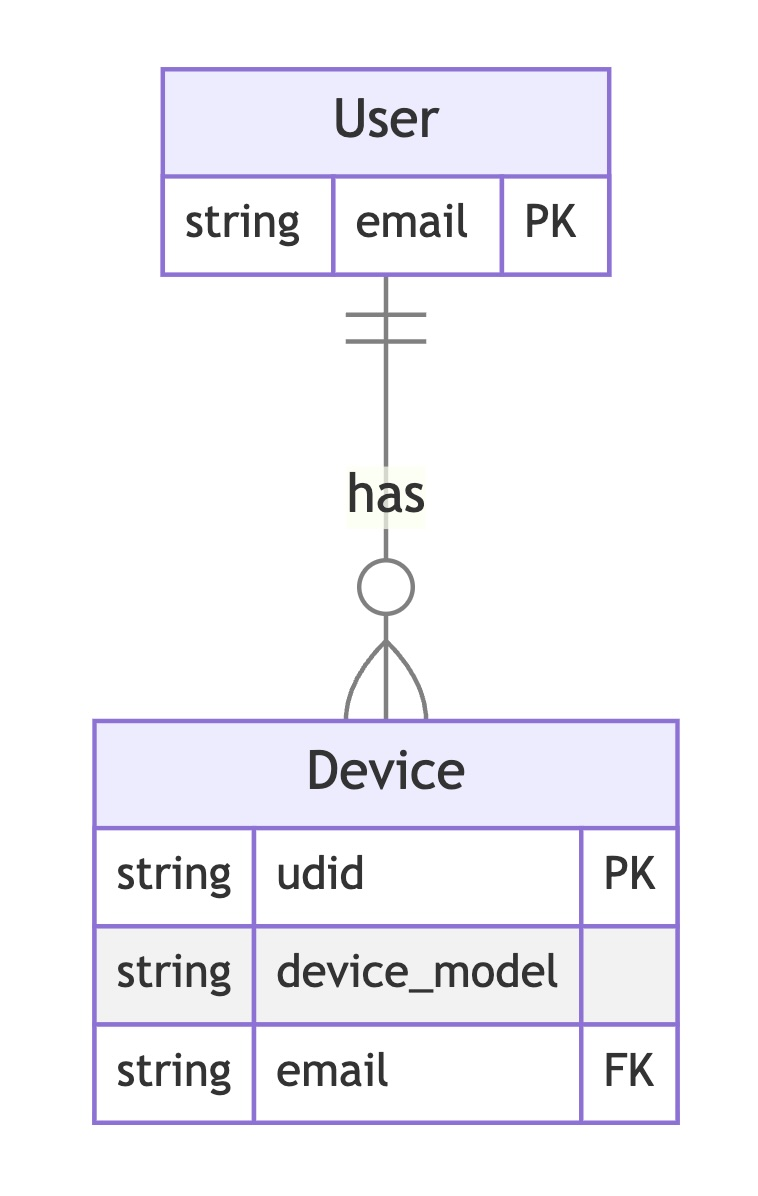
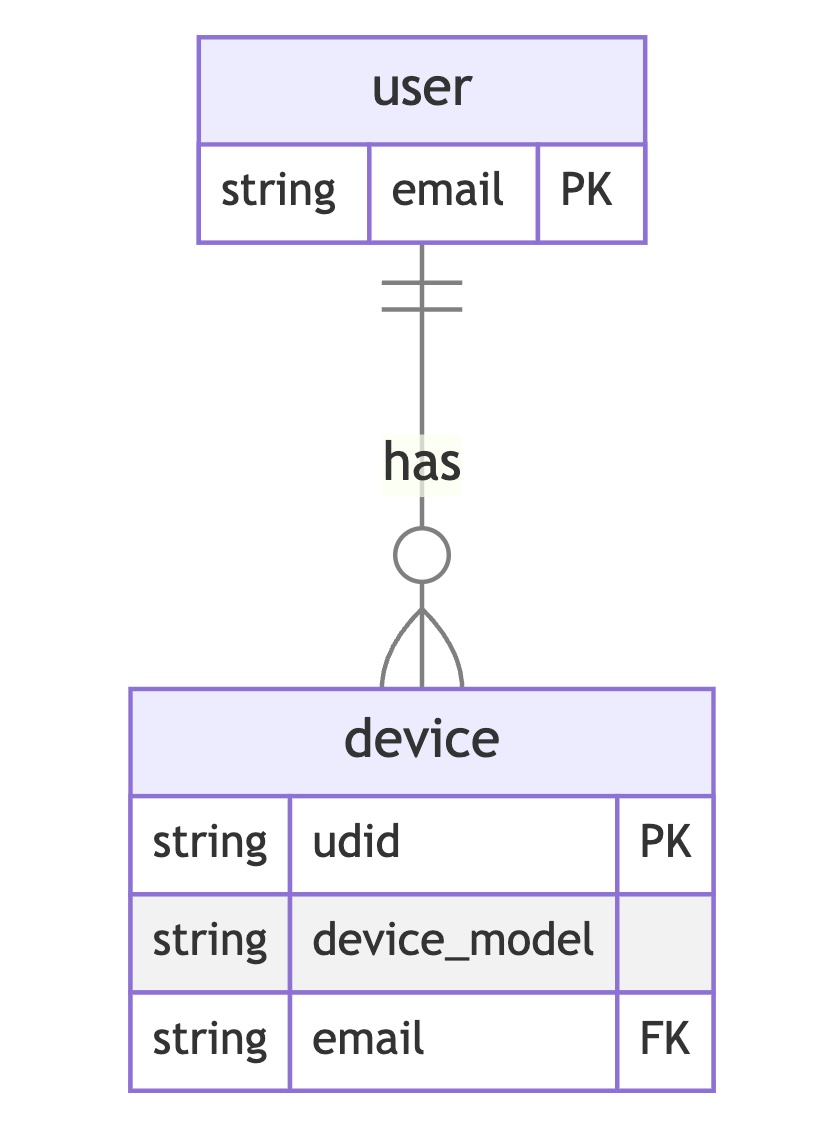
docs: progress update

Changed region(s): [[0.1214, 0.4654, 0.9103, 0.9929], [0.2124, 0.031, 0.8193, 0.4654], [0.4551, 0.4654, 0.4855, 0.4965]]

diff --git a/index.html b/index.html
@@ -51,31 +51,34 @@
     <h1>iOS App Access Automation</h1>
 
     <h2 id="background">Background</h2>
-    <p>Apple restricts devices from installing and using apps from outside its official app market, App Store, without establishing a form of trust between the device and the app’s developer through the Apple Developer Program. Firebase simplifies this process.</p>
-    <p>However, when there’s a timezone difference, it can take up to 24 hours until the users can install the app.</p>
-    <p>This project aims to solve this problem by automating the work required on the developer’s side to grant access to the app after a user registers their device with Firebase.</p>
+    <p>Apple restricts devices from installing and using apps from outside its official app market, App Store, without establishing a form of trust between the device and the app’s developer through the Apple Developer Program. Firebase simplifies this process by providing tools for app distribution.</p>
+    <p>However, the process required manual work from the engineer to register devices and manage access. When there's a timezone difference between the engineer and new users, it could take a day for the engineer to see a new access request.</p>
+    <p>
+    This project automated the work required on the developer's side to grant access to the app after a user registers their device with Firebase. Users now only need to wait approximately 20 minutes after registering their device with Firebase, after which they will receive an email from Firebase that informs the build is ready to be downloaded and installed.</p>
     <h2 id="justification">Justification</h2>
     <p>There’s no question whether automating the process of building and distribution is worth it because doing it manually would cost a substantial amount of time to make small releases that are necessary for identifying issues early.</p>
-<p>However, automating the registration of device UDIDs and the management of the email list required by the Firebase CLI may seem unnecessary but it mitigates the risk of human errors like entering the wrong UDID or email address. It also protects engineers from frequent context switching as they would otherwise need to switch to these tasks every time someone new needs access.</p>
-    <h2>How It Works for Users</h2>
-    <p>
-        Once this project is functional, users will only need to wait approximately 1 hour after registering their device with Firebase, after which they will receive an email from Firebase that informs the build is ready to be downloaded and installed.
-    </p>
+<p>Automating the registration of device UDIDs and the management of the email list required by the Firebase CLI may seem unnecessary, but it provides several benefits. It mitigates the risk of human errors like entering the wrong UDID or email address. It also protects engineers from frequent context switching as they would otherwise need to switch to these tasks every time someone new needs access. Lastly, it eliminates the need for coordination between testers and engineers just for app access.</p>
     <h2>Personal Goal</h2>
     <p>
         Estimating something unknown has always been problematic for me. Sometimes, I estimate 16 hours and it's done in 4 hours. Sometimes, it's the other way around. This makes stakeholders unhappy because it's difficult for them to manage project timelines.
     </p>
     <p>
-        The project is being carried out with a focus on figuring out what can be done to address this weakness of mine and applying the findings along the way.
-    </p>
-    <p>
-        All lessons learned so far are highlighted under the section titled "Lesson Learned".
+        This project was carried out with a focus on figuring out what can be done to address this weakness of mine and applying the findings along the way. All lessons learned so far are highlighted under the section titled "Lesson Learned".
     </p>
     <h2>Project Timeline</h2>
     <ul>
         <li><strong>Start Date:</strong> 16 Dec 2024</li>
-        <li><strong>Expected Completion Date:</strong> 31 Jan 2025</li>
-        <li><strong>Working Hours a Week:</strong> 12-15 hours</li>
+        <li><strong>Completed Date:</strong> 20 Jan 2025</li>
+        <li><strong>Working Hours a Week:</strong> 15 hours</li>
+    </ul>
+    <h2 id="skills-demonstrated">Skills Demonstrated</h2>
+    <ul>
+    <li>Security Fundamentals</li>
+    <li>Automation Engineering (CI/CD)</li>
+    <li>RESTful API Development</li>
+    <li>Problem Analysis</li>
+    <li>System Design and Architecture</li>
+    <li>Continuous Growth through Reflection</li>
     </ul>
     <h2>Design</h2>
     <p>The project consists of three main components:</p>
@@ -88,7 +91,7 @@
 </ul>
 <p><strong>Firebase (App Distribution)</strong> and <strong>Apple Developer Account (via Apple Connect API)</strong> are external services that do not require any coding.</p>
 <p>iOS Build GitHub Workflow is in <a href="https://github.com/AungThiha/iOSAppAccessAutomation" target="_blank">iOSAppAccessAutomation repo</a>. Normally, it would be in <a href="https://github.com/AungThiha/PhotoAlbumKMP" target="_blank">the KMP project's repo</a> but because the KMP project's repo is submitted as part of a university assignment, it's locked until I get my final result. Once unlocked, iOS Build GitHub Workflow will be moved into the KMP project's repo. This is in May 2025.</p>
-<p>Please note that the Node.js service in <strong>iOSAppAccessAutomation</strong> isn't necessary if the emails are managed as <a href="https://firebase.google.com/docs/app-distribution/add-remove-testers?platform=ios#add-remove-testers-group" target="_blank">tester groups</a> as the Firebase CLI allows distribution by groups. However, during the assignment, the automation aspect wasn't factored into implementation decisions, which led to the use of a Firebase invite link that doesn't add the user's email to a group. As a result, this automation project needs a service to manage an email list.</p>
+<p>Please note that the Node.js service in <strong>iOSAppAccessAutomation</strong> isn't necessary if the emails are managed as <a href="https://firebase.google.com/docs/app-distribution/add-remove-testers?platform=ios#add-remove-testers-group" target="_blank">tester groups</a>. As the Firebase CLI allows distribution by a group name, a group name can be set the GitHub workflow only once and re-used for all builds. However, during the assignment, the automation aspect wasn't factored into implementation decisions. This led to the use of a Firebase invite link which doesn't add the user's email to a group. As a result, this automation project needs a service to manage an email list.</p>
     <h3>Sequence Diagram</h3>
     <div class="image-container">
         <img src="images/diagram2.jpg" class="responsive-image" alt="Diagram">
@@ -99,6 +102,10 @@
     </div>
     <p>This is used in iOSAppAccessAutomation.</p>
     <h2 id="security">Security</h2>
+<h3>Using Third-party GitHub Actions Sparingly</h3>
+<p>
+    Dependency Chain Abuse is listed in <a href="https://owasp.org/www-project-top-10-ci-cd-security-risks/" target="_blank">the OWASP Top 10 CI/CD Security Risks</a>. Therefore, any third-party GitHub action that requires sensitive credentials, such as API keys or access tokens, as arguments is not used in this project.
+</p>
 <h3 id="iosappaccessautomation">iOSAppAccessAutomation</h3>
 <p>This server is deployed on Heroku. To enable HTTPS, Heroku uses Server Name Indication (SNI), an extension of the widely supported TLS protocol (<a href="https://devcenter.heroku.com/articles/ssl">Heroku, 2024</a>). This ensures encrypted communication over the network to prevent eavesdropping and man-in-the-middle attacks.</p>
 <h3 id="communications-between-iosappinvitealert-and-iosappaccessautomation">Communications Between iOSAppInviteAlert and iOSAppAccessAutomation</h3>
@@ -108,19 +115,19 @@
 <p>For an organization, Heroku configuration variables may not be a viable option because Heroku doesn’t provide a way to pick and choose what features of Heroku a team member can have access to. This makes the secret keys visible to anyone who has access to Heroku dashboard. However, for this project, because I’m the sole engineer, this is not an issue.</p>
 <h3 id="communications-between-the-github-workflow-and-iosappaccessautomation">Communications Between the GitHub workflow and iOSAppAccessAutomation</h3>
 <p>To ensure only the GitHub workflow in this project can download the email list from iOSAppAccessAutomation, the same security design is used.</p>
-<p>The GitHub workflow uses a private key stored in Github Secret to generate JWTs to identify itself when communicating with iOSAppAccessAutomation. iOSAppAccessAutomation verifies these JWTs using a public key stored in Heroku configuration variables.</p>
+<p>The GitHub workflow uses a private key stored in GitHub Secret to generate JWTs to identify itself when communicating with iOSAppAccessAutomation. iOSAppAccessAutomation verifies these JWTs using a public key stored in Heroku configuration variables.</p>
 <p>Please, note that the RSA key pair used here is not the same the key pair used for communications between iOSAppInviteAlert and iOSAppAccessAutomation. This enables separate access management.</p>
 <h3 id="future-improvement">Future Improvement</h3>
 <p>Rotating the RSA keys periodically would minimize the impact of key compromise. This will be done as part of learning secure infrastructure management though the exact date for this isn't set yet. Priorities are reviewed every 4 months.</p>
 <p>Logging and monitoring will also be done as part of learning secure infrastructure management.</p>
     <h2>Edge Case</h2>
-    <p>If a user invites themselves using a new email but with a device that's already registered,  Apple Connect API will return an error and iOSAppInviteAlert won't call the Github workflow to create a new build.</p>
+    <p>If a user invites themselves using a new email but with a device that's already registered, Apple Connect API will return an error and iOSAppInviteAlert won't call the GitHub workflow to create a new build.</p>
     <p>This is not a problem because the latest build will have already been built with a provisioning profile that's configured with the device's UDID since it's already registered.</p>
-    <p>However, the new email will replace the existing email in the <strong>Device</strong> table in iOSAppAccessAutomation so that the new email can receive notifications for new builds. It's designed this way because the history of device ownership is not important in this project.</p>
-    <p>As for the old email in <strong>User</strong> table, since it won't be cleared, it will continue to receive updates for new builds. This means the user can use either email to access the latest build.</p>
+    <p>However, the new email will replace the existing email in the <strong>device</strong> table in iOSAppAccessAutomation so that the new email can receive notifications for new builds. It's designed this way because the history of device ownership is not important in this project.</p>
+    <p>As for the old email in <strong>user</strong> table, since it won't be cleared, it will continue to receive updates for new builds. This means the user can use either email to access the latest build.</p>
     <h2>Project Revision</h2>
     <p>Initially, it was designed to update the provisioning profile from the Firebase Cloud Function but later, it was found that Apple Connect API does not support updating provisioning profile. It only provides APIs for creating and deleting.</p> 
-    <p>Because of it, it's decided to create a new provisioning profile for every build using Github Workflow instead.</p>
+    <p>Because of it, it's decided to create a new provisioning profile for every build using GitHub Workflow instead.</p>
     <p>Creating a provisioning profile returns the created provisioning profile as part of the response. Therefore, the task number 3 in the Task Breakdown was discarded.</p>
     <p>The task number 7 is also canceled but because the time spent on this task revealed the missing information that led to this revision, it's still marked as 1 hour spent on this task.</p>
     <p>This revision increased the project timeline by 13 hours.</p>
@@ -151,7 +158,7 @@
         </tr>
         <tr>
             <td>2</td>
-            <td>Distribution Certificate in Github Actions
+            <td>Distribution Certificate in GitHub Actions
                 <ul>
                     <li>Export the Certificate from Xcode</li>
                     <li>Base64-encode the certificate and save it in GitHub Secrets</li>
@@ -165,7 +172,7 @@
         </tr>
         <tr>
             <td>3</td>
-            <td>Provisioning Profile in Github Actions
+            <td>Provisioning Profile in GitHub Actions
                 <ul>
                     <li>Create a Private Key to access Apple Connect API</li>
                     <li>A Python script to download the Provisioning Profile</li>
@@ -179,7 +186,7 @@
         </tr>
         <tr>
             <td>4</td>
-            <td>Build the iOS app using Github Actions
+            <td>Build the iOS app using GitHub Actions
                 <ul>
                     <li>Learn the basic usage of xcodebuild</li>
                     <li>Create archive</li>
@@ -270,7 +277,7 @@
         </tr>
         <tr>
             <td>12</td>
-            <td>Download the device list from Apple in Github Actions
+            <td>Download the device list from Apple in GitHub Actions
                 <ul>
                     <li>Re-use the Private Key from task 3</li>
                     <li>A Python script to download the device list</li>
@@ -282,7 +289,7 @@
         </tr>
         <tr>
             <td>13</td>
-            <td>Create a Provisioning Profile from Github Actions
+            <td>Create a Provisioning Profile from GitHub Actions
                 <ul>
                     <li>Update the Python script from task 12 to include this</li>
                     <li>Generate Provisioning Profile name on the fly</li>
@@ -296,10 +303,10 @@
         </tr>
         <tr>
             <td>14</td>
-            <td>Trigger iOS build process in Github Actions through Firebase Cloud Functions
+            <td>Trigger iOS build process in GitHub Actions through Firebase Cloud Functions
             <ul>
                     <li>Learn how to use GitHub Actions' Rest APIs for this</li>
-                    <li>Generate a github access token (In github's terms, a fine-grained personal access token)</li>
+                    <li>Generate a GitHub access token (In GitHub's terms, a fine-grained personal access token)</li>
                     <li>Set the token in Firebase Secret Manager</li>
                     <li>Write axios request to trigger the workflow</li>
                     <li>Use the axios request in the device registration listenter</li>
@@ -334,10 +341,10 @@
             <td>17</td>
             <td>Download the list of emails from iOSAppAccessAutomation
             <ul>
-                <li>Enter private key, key ID and issuer ID into Github Secrets</li>
+                <li>Enter private key, key ID and issuer ID into GitHub Secrets</li>
                 <li>Python script to generate JWT</li>
                 <li>Another Python script to make a HTTP request and print the result</li>
-                <li>Update the Github workflow</li>
+                <li>Update the GitHub workflow</li>
             </ul>
             </td>
             <td>iOS build GitHub workflow</td>
@@ -348,10 +355,10 @@
             <td>18</td>
             <td>Distribute the app through Firebase App Distribution
             <ul>
-                <li>Save iOS Firebase project ID in Github Secrets</li>
+                <li>Save iOS Firebase project ID in GitHub Secrets</li>
                 <li>Create Google service account and export credential json</li>
-                <li>Save Google service account credential json in Github Secrets</li>
-                <li>Make the Github workflow install Firebase CLI and distribute the build</li>
+                <li>Save Google service account credential json in GitHub Secrets</li>
+                <li>Make the GitHub workflow install Firebase CLI and distribute the build</li>
                 <li>Testing this takes a bit of time because it needs to wait for the build</li>
             </ul>  
             </td>
@@ -385,10 +392,22 @@
         </tr>
         <tr>
             <td>21</td>
+            <td>Bump iOS build version for every release
+            <ul>
+                <li>Use GitHub cache to save iOS build version</li>
+                <li>Make this logic <a href="https://docs.github.com/en/actions/sharing-automations/creating-actions/creating-a-composite-action" target="_blank">a composite action</a> to keep the main workflow clean</li>
+            </ul>
+        </td>
+            <td>iOS build GitHub workflow</td>
+            <td>2</td>
+            <td>Done</td>
+        </tr>
+        <tr>
+            <td>22</td>
             <td>Final end-to-end test</td>
             <td></td>
             <td>2</td>
-            <td>In Progress</td>
+            <td>Done</td>
         </tr>
         <tr>
             <td></td>
@@ -399,7 +418,7 @@
         </tr>
     </tbody>
 </table>
-    <h2>Github Repositories</h2>
+    <h2>GitHub Repositories</h2>
     <ul>
         <li>
             <a href="https://github.com/AungThiha/iOSAppAccessAutomation">https://github.com/AungThiha/iOSAppAccessAutomation</a> (Includes iOS build GitHub workflow)
@@ -411,31 +430,7 @@
             <a href="https://github.com/AungThiha/PhotoAlbumKMP">https://github.com/AungThiha/PhotoAlbumKMP</a>
         </li>
     </ul>
-
-    <h2>Resources</h2>
-    <ul>
-        <li>
-            Firebase allows developers to subscribe to device list changes programmatically, including new device registration. 
-            <a href="https://firebase.google.com/docs/app-distribution/register-additional-devices" target="_blank">https://firebase.google.com/docs/app-distribution/register-additional-devices</a>
-        </li>
-        <li>
-            Apple offers an API that allows developers to programmatically add a new device in their Apple Developer Account. 
-            <a href="https://developer.apple.com/documentation/appstoreconnectapi/post-v1-devices" target="_blank">https://developer.apple.com/documentation/appstoreconnectapi/post-v1-devices</a>
-        </li>
-        <li>
-            Apple offers an API to download provisioning profiles programmatically. 
-            <a href="https://developer.apple.com/documentation/appstoreconnectapi/get-v1-profiles" target="_blank">https://developer.apple.com/documentation/appstoreconnectapi/get-v1-profiles</a>
-        </li>
-        <li>
-            Apple allows building a release iOS build from a command line. 
-            <a href="https://developer.apple.com/library/archive/technotes/tn2339/_index.html#//apple_ref/doc/uid/DTS40014588-CH1-HOW_DO_I_BUILD_MY_PROJECTS_FROM_THE_COMMAND_LINE_" target="_blank">https://developer.apple.com/library/archive/technotes/tn2339/_index.html#//apple_ref/doc/uid/DTS40014588-CH1-HOW_DO_I_BUILD_MY_PROJECTS_FROM_THE_COMMAND_LINE_</a>
-        </li>
-        <li>
-            Firebase offers an API to upload an iOS build from a command line. 
-            <a href="https://firebase.google.com/docs/app-distribution/ios/distribute-cli" target="_blank">https://firebase.google.com/docs/app-distribution/ios/distribute-cli</a>
-        </li>
-    </ul>
-    <h2>Lessons Learned</h2>
+    <h2 id="lesson-learned">Lessons Learned</h2>
     <ul>
         <li>
             The revision happened because during the design task, a third-party API was planned for use without knowing whether such API even exists. Just because APIs for downloading, creating and deleting exist, it cannot be assumed that an API for updating is available as well.
